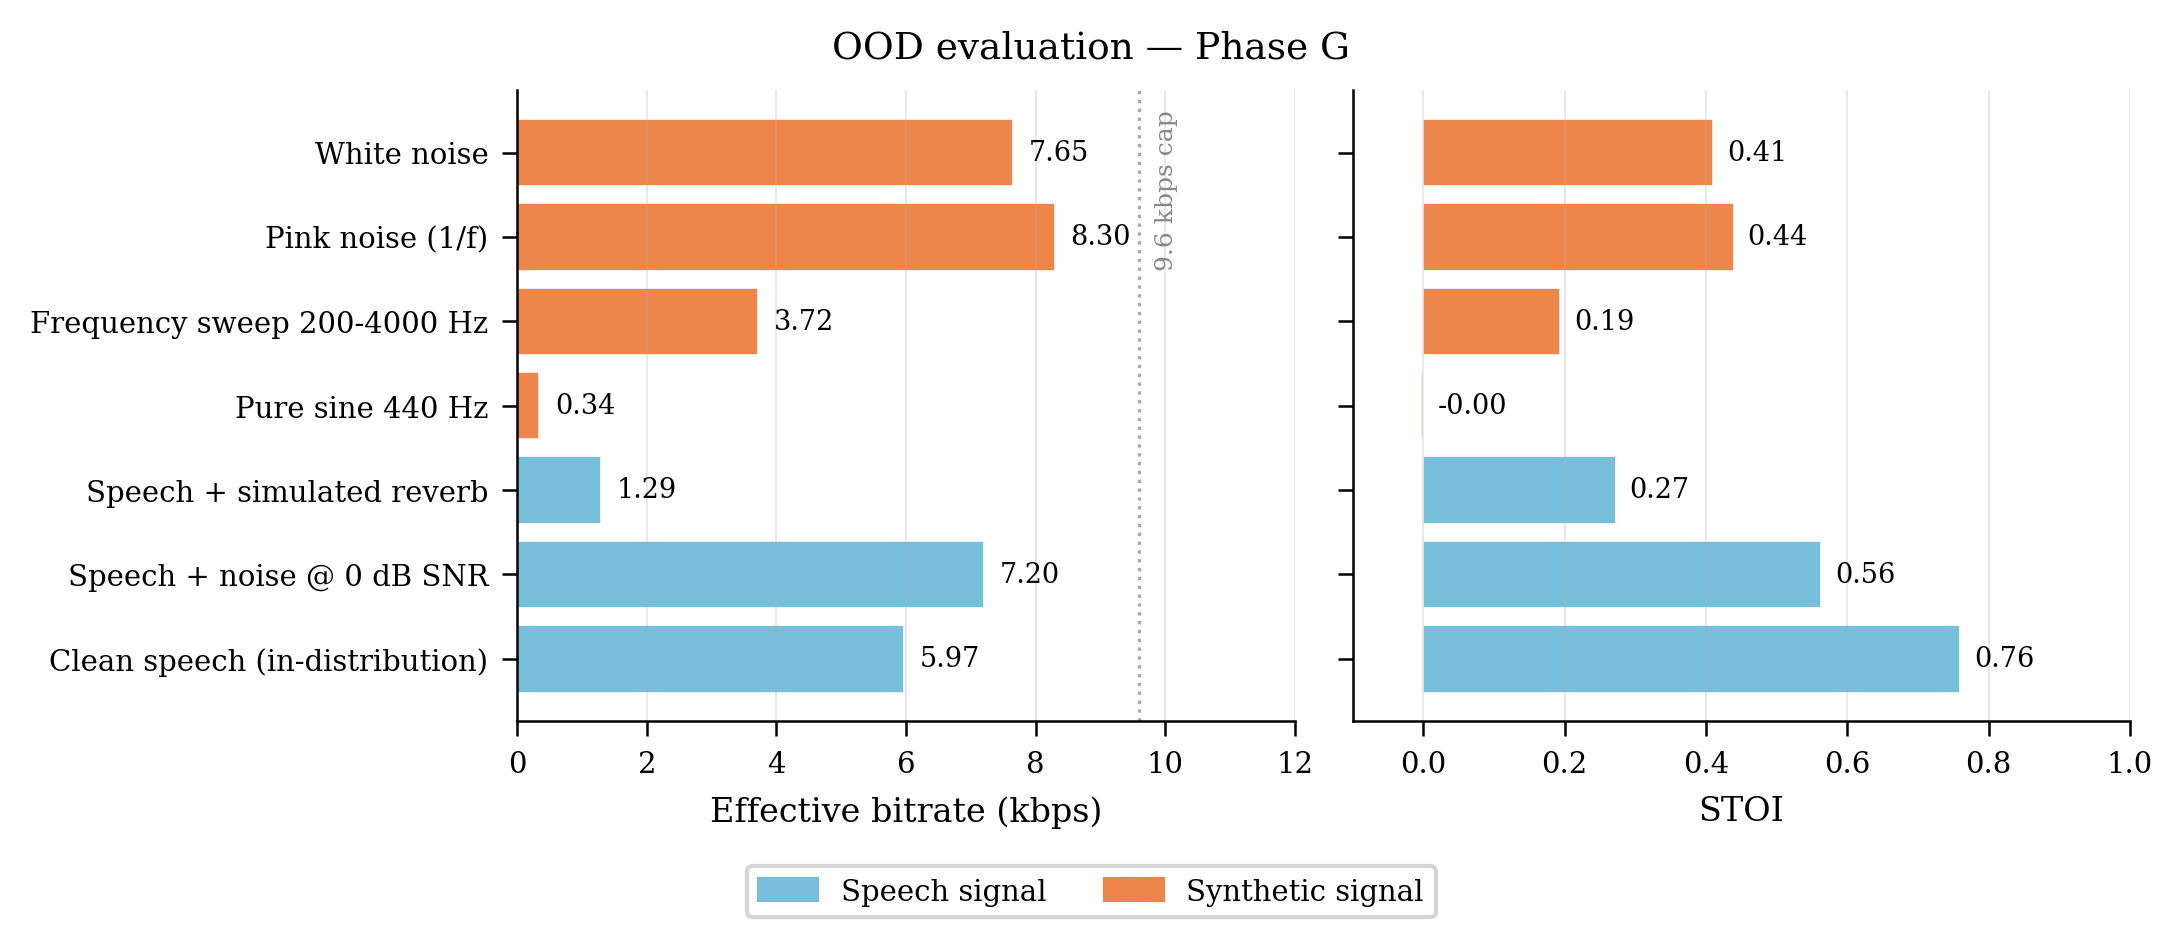
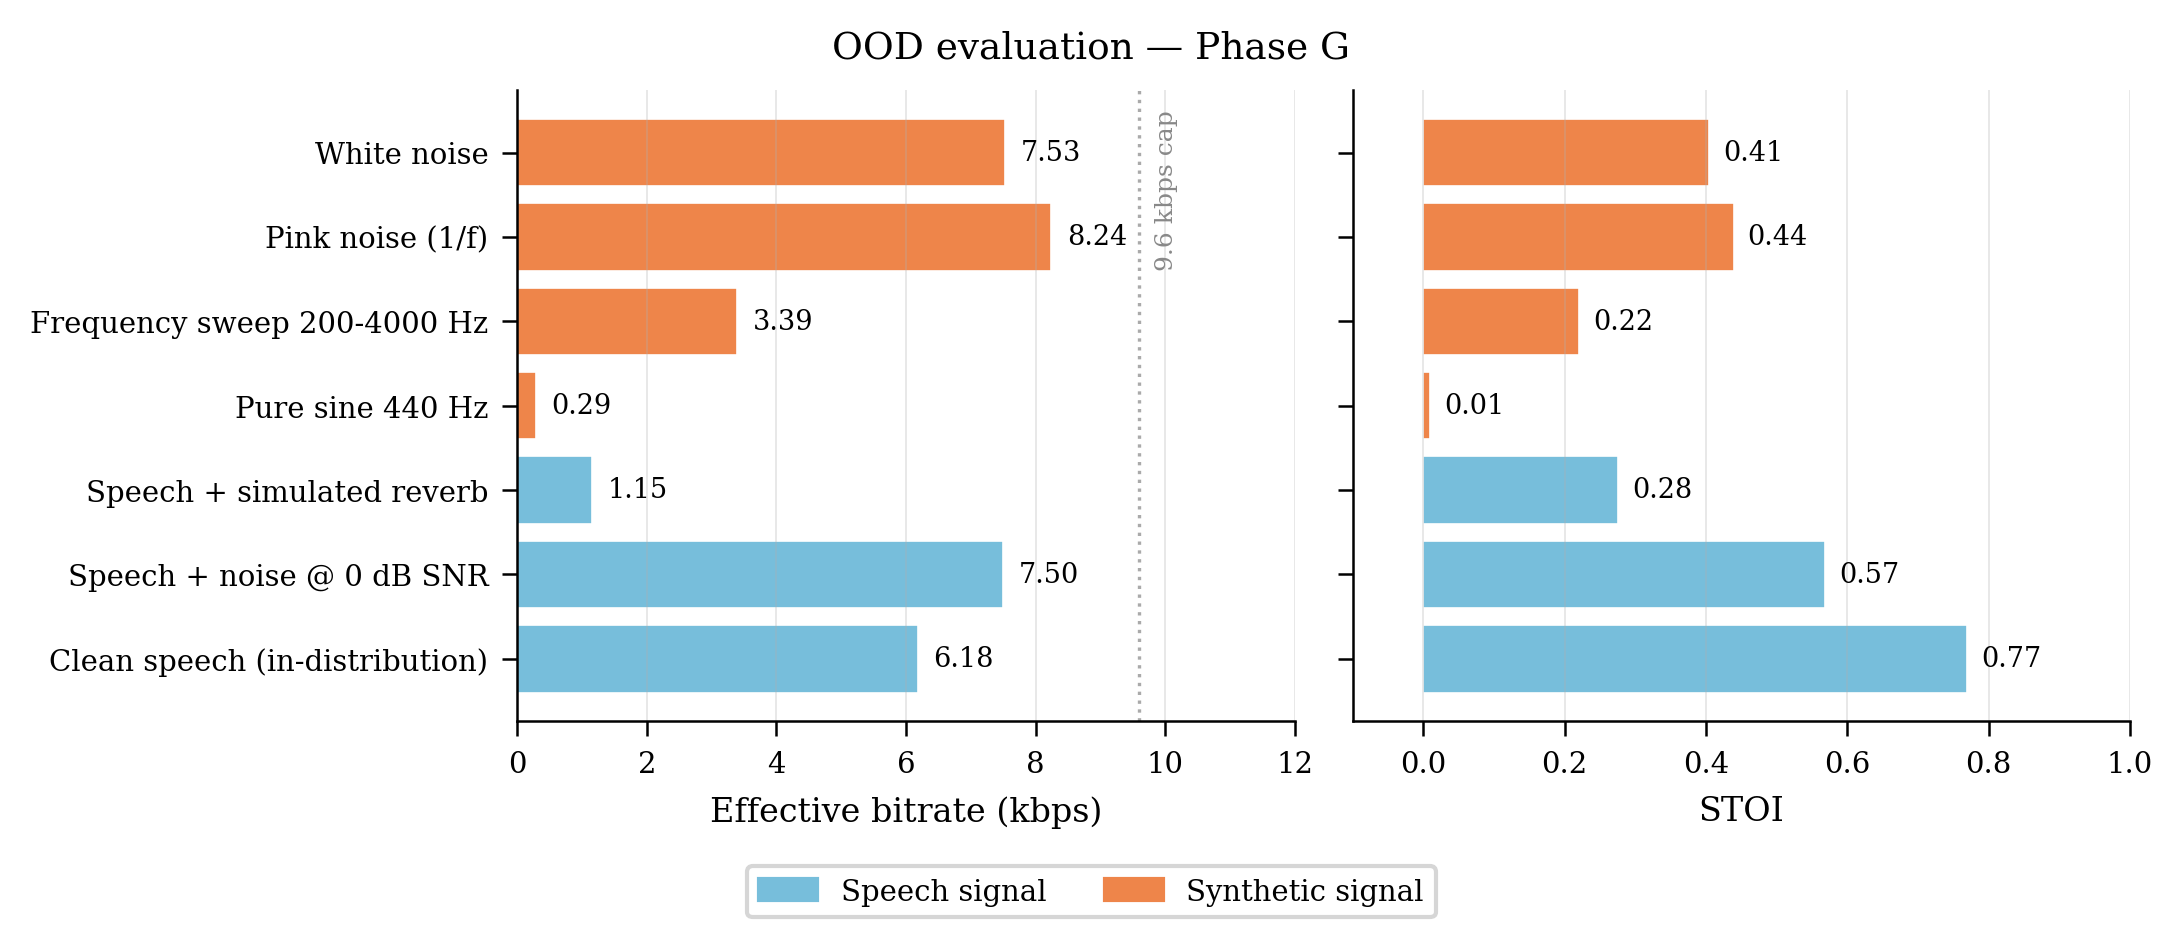
feat: enhance scripts with checkpoint argument parsing and update README with experimental results

diff --git a/scripts/figures/data_loader.py b/scripts/figures/data_loader.py
@@ -37,7 +37,9 @@ def load_all(project_root: Path) -> dict:
         _try(data, ('compression', 'per_dim_h'), _load_compression, compression_dir / 'report.txt')
 
     # The canonical speaker-leakage figure is specifically about Phase G.
-    probe_dir = _latest(comp, '*_speaker_probe_temporal_phaseG') or _latest(comp, '*_speaker_probe')
+    probe_dir = (_latest(comp, '*_speaker_probe_temporal_phaseG_fixed')
+                 or _latest(comp, '*_speaker_probe_temporal_phaseG')
+                 or _latest(comp, '*_speaker_probe'))
     if probe_dir:
         _try(data, 'speaker_probe', _load_speaker_probe, probe_dir / 'report.txt')
 
@@ -66,8 +68,10 @@ def load_all(project_root: Path) -> dict:
     # One-off historical snapshots, evaluated on the fixed canonical 5-speaker
     # set (unaffected by dataset completeness) -- pinned dates are fine here.
     _try(data, 'multi_coder',  _load_multi_coder,     comp / '2026-07-10_multi_coder' / 'report.txt')
-    _try(data, 'ood',          _load_ood,             comp / '2026-07-01_ood_eval' / 'report.txt')
-    _try(data, 'corruption',   _load_corruption,      comp / '2026-07-01_corruption_test' / 'report.txt')
+    ood_dir = _latest(comp, '*_ood_eval_temporal_phaseG_fixed') or comp / '2026-07-01_ood_eval'
+    _try(data, 'ood',          _load_ood,             ood_dir / 'report.txt')
+    corr_dir = _latest(comp, '*_corruption_test_temporal_phaseG_fixed') or comp / '2026-07-01_corruption_test'
+    _try(data, 'corruption',   _load_corruption,      corr_dir / 'report.txt')
     # Measured against the platform checkpoint (fixed 100ms attention window).
     # Superseded: 2026-07-18_complexity_latency (pre-fix checkpoint) -- kept only
     # to show the two are numerically identical, see the note in the newer report.

diff --git a/scripts/12_ood_eval.py b/scripts/12_ood_eval.py
@@ -97,15 +97,21 @@ def add_reverb(speech: np.ndarray, sr: int = SR) -> np.ndarray:
 # ── Main ──────────────────────────────────────────────────────────────────────
 
 def main():
+    import argparse
+    ap = argparse.ArgumentParser()
+    ap.add_argument('--checkpoint', type=Path, default=None,
+                    help='Model checkpoint (default: best available G→F→C)')
+    args = ap.parse_args()
+
     device    = torch.device('cuda' if torch.cuda.is_available() else 'cpu')
-    ckpt_path = find_checkpoint(PROJECT_ROOT)
+    ckpt_path = args.checkpoint or find_checkpoint(PROJECT_ROOT)
 
     timestamp = datetime.now().strftime('%Y-%m-%d')
-    out_dir   = PROJECT_ROOT / 'comparisons' / f'{timestamp}_ood_eval'
+    out_dir   = PROJECT_ROOT / 'comparisons' / f'{timestamp}_ood_eval_{ckpt_path.parent.name}'
     out_dir.mkdir(parents=True, exist_ok=True)
 
     print(f"\n{'='*68}")
-    print("OOD EVALUATION — Phase G on signal types outside training distribution")
+    print("OOD EVALUATION — signal types outside training distribution")
     print(f"{'='*68}")
     print(f"checkpoint: {ckpt_path.parent.name}")
     print(f"device    : {device}\n")
@@ -207,7 +213,7 @@ def main():
     sep = '-' * 68
     lines = [
         '', SEP,
-        'OOD EVALUATION — Phase G (causal codec vs signal type)',
+        'OOD EVALUATION — signal type vs codec (causal)',
         f"Generated: {datetime.now().strftime('%Y-%m-%d %H:%M')}",
         f"Checkpoint: {ckpt_path.parent.name}",
         SEP, '',

diff --git a/scripts/11_corruption_test.py b/scripts/11_corruption_test.py
@@ -83,11 +83,17 @@ def decode_chunk(model, corrupted: bytes, z_shape, z_min, z_max, scale, device):
 
 
 def main():
+    import argparse
+    ap = argparse.ArgumentParser()
+    ap.add_argument('--checkpoint', type=Path, default=None,
+                    help='Model checkpoint (default: best available G→F→C)')
+    args = ap.parse_args()
+
     device    = torch.device('cuda' if torch.cuda.is_available() else 'cpu')
-    ckpt_path = find_checkpoint(PROJECT_ROOT)
+    ckpt_path = args.checkpoint or find_checkpoint(PROJECT_ROOT)
 
     timestamp = datetime.now().strftime('%Y-%m-%d')
-    out_dir   = PROJECT_ROOT / 'comparisons' / f'{timestamp}_corruption_test'
+    out_dir   = PROJECT_ROOT / 'comparisons' / f'{timestamp}_corruption_test_{ckpt_path.parent.name}'
     out_dir.mkdir(parents=True, exist_ok=True)
 
     print(f"\n{'='*68}")

diff --git a/scripts/analyze_multi_coder.py b/scripts/analyze_multi_coder.py
@@ -40,6 +40,13 @@ PHASES = {
     'E':     PROJECT_ROOT / 'checkpoints_active/temporal_phaseE/best.pt',
     'F':     PROJECT_ROOT / 'checkpoints_active/temporal_phaseF/best.pt',
     'G':     PROJECT_ROOT / 'checkpoints_active/temporal_phaseG/best.pt',
+    # Platform (100ms attention window) family.
+    'C-fixed':     PROJECT_ROOT / 'checkpoints_active/temporal_phaseC_fixed/best.pt',
+    'D-fixed':     PROJECT_ROOT / 'checkpoints_active/temporal_phaseD_fixed/best.pt',
+    'D-VAE-fixed': PROJECT_ROOT / 'checkpoints_active/temporal_phaseD_vae_fixed/best.pt',
+    'E-fixed':     PROJECT_ROOT / 'checkpoints_active/temporal_phaseE_fixed/best.pt',
+    'F-fixed':     PROJECT_ROOT / 'checkpoints_active/temporal_phaseF_fixed/best.pt',
+    'G-fixed':     PROJECT_ROOT / 'checkpoints_active/temporal_phaseG_fixed/best.pt',
 }
 
 NUM_LEVELS = 8

diff --git a/README.md b/README.md
@@ -131,9 +131,9 @@ To reproduce: `python scripts/eval_confidence_intervals.py` for the EntroCodec r
 
 ## Supporting experiments
 
-Three additional experiments characterize the latent and rule out alternative explanations. All three were measured before the attention-window correction and have not yet been re-run against the platform checkpoint.
+Three additional experiments characterize the latent and rule out alternative explanations.
 
-**Speaker identity is not disentangled from content.** A linear probe on the frozen, mean-pooled Phase G latent recovers speaker identity at 29.6% accuracy against a 2.5% chance baseline (40 speakers), 11.8× above chance — expected, since reconstruction-only training has no mechanism to separate "what is said" from "who said it." Suppressing latent entropy also suppresses this leakage: the same probe recovers 28.3% on Phase D and 25.8% on Phase D-Entropy, so the entropy penalty compresses speaker identity along with everything else rather than trimming only content-irrelevant capacity.
+**Speaker identity is not disentangled from content.** A linear probe on the frozen, mean-pooled Phase G latent recovers speaker identity at 33.6% accuracy against a 2.5% chance baseline (40 speakers), 13.5× above chance — expected, since reconstruction-only training has no mechanism to separate "what is said" from "who said it." Suppressing latent entropy also suppresses this leakage: the same probe recovers 33.0% on Phase D and 28.3% on Phase D-Entropy, so the entropy penalty compresses speaker identity along with everything else rather than trimming only content-irrelevant capacity.
 
 ![Speaker identity linear probe, per-speaker recall](plots/fig_18_speaker_probe.png)
 
@@ -145,7 +145,7 @@ Three additional experiments characterize the latent and rule out alternative ex
 
 ![Bitrate and intelligibility across signal types](plots/fig_14_ood_signals.png)
 
-A pure tone compresses to 0.34 kbps; white/pink noise approaches the 9.6 kbps theoretical cap — bitrate is a direct, mechanical readout of latent entropy (Section 1), and that holds for signals the model never saw in training.
+A pure tone compresses to 0.29 kbps; white/pink noise approaches the 9.6 kbps theoretical cap — bitrate is a direct, mechanical readout of latent entropy (Section 1), and that holds for signals the model never saw in training.
 
 ---
 
